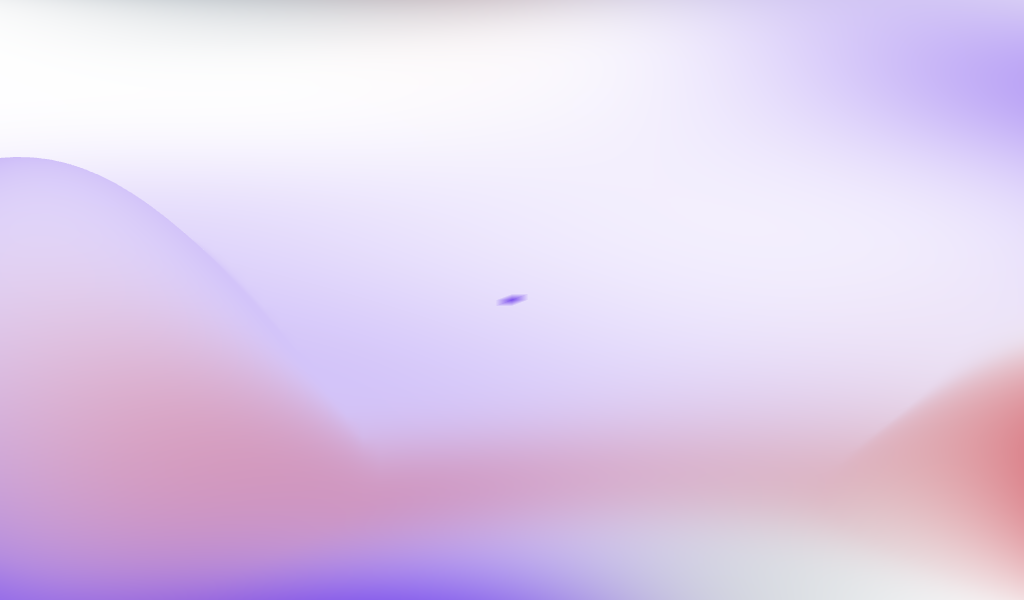
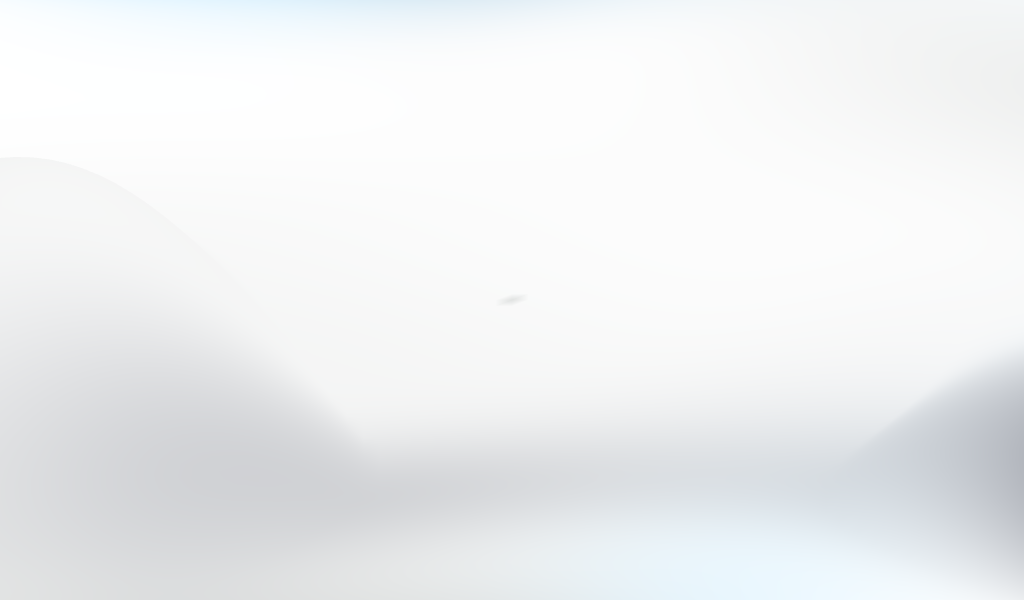
refactor(docs): add default theme and change mesh gradient

diff --git a/docs/components/styles/GradientBackground.tsx b/docs/components/styles/GradientBackground.tsx
@@ -25,10 +25,10 @@ export const GradientBackground = ({ isDocsLayout = false }: Props) => {
       className={clsx(
         isDocsLayout &&
           theme !== "dark" &&
-          "bg-[url('/mesh2.png')] opacity-10 grayscale-[1]",
+          "bg-[url('/mesh2.png')] opacity-50 grayscale-[1]",
         !isDocsLayout &&
           theme !== "dark" &&
-          "bg-[url('/mesh2.png')] opacity-30 grayscale-[1]",
+          "bg-[url('/mesh2.png')] grayscale-[1]",
         theme === "dark" &&
           "bg-[url('/mesh.png')] brightness-95  contrast-200 grayscale-[0.2] filter",
         "fixed inset-0 z-[1] h-screen  bg-cover bg-center bg-no-repeat "
@@ -36,15 +36,3 @@ export const GradientBackground = ({ isDocsLayout = false }: Props) => {
     />
   );
 };
-{
-  /* <div
-id="dark-image-gradient"
-className={clsx(
-  theme !== "dark" && "bg-[url('/mesh2.png')] opacity-30 grayscale-[1]",
-  theme === "dark" &&
-    "bg-[url('/mesh.png')] brightness-95  contrast-200 grayscale-[0.2] filter",
-  "fixed inset-0 z-[1] h-screen  bg-cover bg-center bg-no-repeat "
-)}
-/> */
-}
-// theme !== "dark" && "bg-[url('/mesh2.png')] opacity-10 grayscale-[1] ",

diff --git a/docs/pages/_app.tsx b/docs/pages/_app.tsx
@@ -21,7 +21,9 @@ export default function App({ Component, pageProps }: AppPropsWithLayout) {
   return (
     <>
       <NextNProgress color="#0069FF" />
-      <ThemeProvider>{getLayout(<Component {...pageProps} />)}</ThemeProvider>
+      <ThemeProvider defaultTheme="dark">
+        {getLayout(<Component {...pageProps} />)}
+      </ThemeProvider>
     </>
   );
 }
